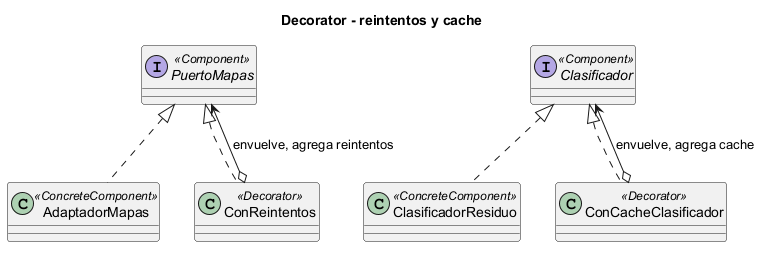
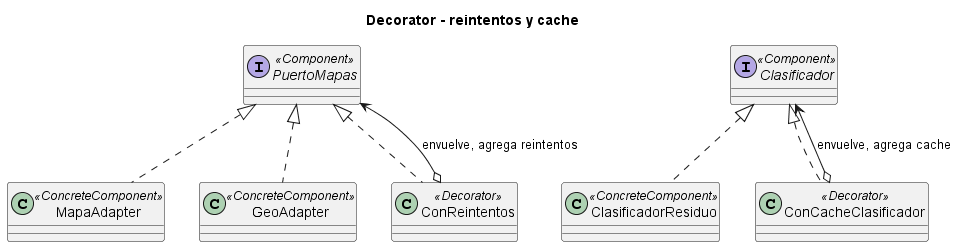
E7: corregir diagramas y verificar con pyreverse

diff --git a/docs/design/patrones/e7-diagramas.md b/docs/design/patrones/e7-diagramas.md
@@ -20,6 +20,17 @@ Los diagramas emplean estereotipos para distinguir los roles de cada patron. Str
 
 Se actualizo [clases.puml](../clases.puml) para mostrar las clases que existen en el codigo refactorizado de E1-E5 y las relaciones de uso e implementacion relevantes. El archivo conserva su ruta, pero ya no representa solamente el modelo conceptual de Lab05. Ese modelo sigue en los artefactos UML anteriores; el diagrama actualizado refleja el codigo que ejecutan las pruebas.
 
-Se genero una salida independiente con Pyreverse a partir de los nueve modulos de implementacion de solicitudes, estados, mapas, eventos, decoradores, IA y puntos/beneficios. Pyreverse analizo nueve modulos y reconocio las clases, las herencias y las dependencias entre modulos. Se contrastaron los nombres y jerarquias de clases.puml contra esa salida y las relaciones de uso se confirmaron leyendo las referencias en el codigo. En algunos casos Pyreverse no infiere asociaciones cuyo tipo es dinamico, por ejemplo los clientes externos recibidos por los adaptadores; se evita presentarlas como clases concretas de produccion en el diagrama.
+Se genero una salida independiente con Pyreverse en dos ejecuciones: siete modulos de Solicitudes y dos de Puntos/Beneficios. Esto evita que los dos archivos servicio.py colisionen al analizarlos juntos sin paquetes explicitos. Se contrastaron las clases y herencias reconocidas, sin asumir que Pyreverse resuelva todas las dependencias dinamicas entre modulos. Se contrastaron los nombres y jerarquias de clases.puml contra esa salida y las relaciones de uso se confirmaron leyendo las referencias en el codigo. En algunos casos Pyreverse no infiere asociaciones cuyo tipo es dinamico, por ejemplo los clientes externos recibidos por los adaptadores; se evita presentarlas como clases concretas de produccion en el diagrama.
 
-La salida generada por Pyreverse se uso como evidencia de revision y no se copia como reemplazo directo: incluye detalles mecanicos y dependencias que no corresponden a una vista legible. La imagen [clases-solicitudes.png](img/clases-solicitudes.png) se regenero desde el archivo PlantUML actualizado.
+La salida generada por Pyreverse se uso como evidencia de revision y no se copia como reemplazo directo: incluye detalles mecanicos y dependencias que no corresponden a una vista legible. La imagen [clases-solicitudes.png](../img/clases-solicitudes.png) se regenero desde el archivo PlantUML actualizado.
+
+## Reproduccion de la comprobacion con Pyreverse
+
+```powershell
+pyreverse -o puml -p solicitudes -d RUTA_TEMPORAL src/solicitudes/servicio.py src/solicitudes/modelos.py src/solicitudes/estados.py src/solicitudes/mapas.py src/solicitudes/eventos.py src/solicitudes/decoradores.py src/solicitudes/ia.py
+pyreverse -o puml -p puntos -d RUTA_TEMPORAL src/puntos_beneficios/servicio.py src/puntos_beneficios/reglas.py
+```
+
+RUTA_TEMPORAL debe ser una carpeta existente fuera del repositorio. Resultado de la revision: 7 y 2 modulos analizados, respectivamente. Al pasar los nueve archivos juntos se reconocian ocho modulos por la colision del nombre servicio. Se comprobaron en las salidas ambas clases de servicio y las jerarquias de los patrones. La salida no infiere todas las asociaciones dinamicas, estas se revisan en el codigo. El resumen de evidencia se conserva en [pyreverse-verificacion.txt](pyreverse-verificacion.txt).
+
+Correcciones de revision: Decorator muestra MapaAdapter y GeoAdapter, el cliente LLM se identifica como contrato externo esperado y Estado se representa como clase base, coherente con su implementacion. No se modifico el codigo funcional.

diff --git a/docs/design/patrones/bitacora-ia.md b/docs/design/patrones/bitacora-ia.md
@@ -55,3 +55,11 @@ Se utilizó Codex como apoyo para elaborar propuestas de código y pruebas, revi
 - **Propuesta:** Se prepararon siete diagramas PlantUML, uno por patrón aplicado: Strategy, Adapter, Factory, State, Observer, Decorator y Chain of Responsibility. El diagrama Decorator presenta por separado el envoltorio de reintentos de mapas y la caché del clasificador. Se actualizó docs/design/clases.puml para el código E1-E5, manteniendo los artefactos conceptuales anteriores del Lab05.
 - **Verificación:** PlantUML generó los siete PNG de patrones y la nueva imagen de clases. Pyreverse analizó nueve módulos de implementación; se contrastaron las clases y las jerarquías del diagrama con esa salida y se validaron las asociaciones de uso en el código. Se distinguen del modelo de dominio conceptual de Lab05 las clases efectivamente implementadas en Lab07.
 - **Decisión:** Conservar fuentes PlantUML y PNG juntos en docs/design/patrones/; actualizar la imagen de clases existente. Los adaptadores de LLM reciben un cliente externo por interfaz dinámica, por ello el diagrama los muestra como puerto/adaptador sin afirmar que exista un cliente real en el repositorio.
+
+## Apoyo en revision de E7, 25/10/2026
+
+- **Herramienta:** Codex.
+- **Solicitud:** Revisar y corregir las diferencias de los diagramas respecto del codigo, conservando la estructura de E7.
+- **Ajustes:** Se corrigen los adaptadores concretos de Decorator, la representacion del cliente LLM como contrato externo y la clase base Estado. Se corrige el enlace a la imagen general y se precisa la comprobacion Pyreverse por separado para evitar la colision de los dos archivos servicio.py.
+- **Verificacion:** Pyreverse reconoce siete modulos de Solicitudes y dos de Puntos/Beneficios. Se contrastan las clases y jerarquias, y se conserva un resumen en pyreverse-verificacion.txt. PlantUML comprueba la sintaxis de las fuentes y regenera los cuatro PNG afectados. Se revisan visualmente esas imagenes. No se modifica el codigo funcional ni se atribuye a Pyreverse la inferencia completa de asociaciones dinamicas.
+- **Decision:** Conservar los ajustes de diagramacion y la evidencia de revision, pendientes de la aprobacion de la companera.
